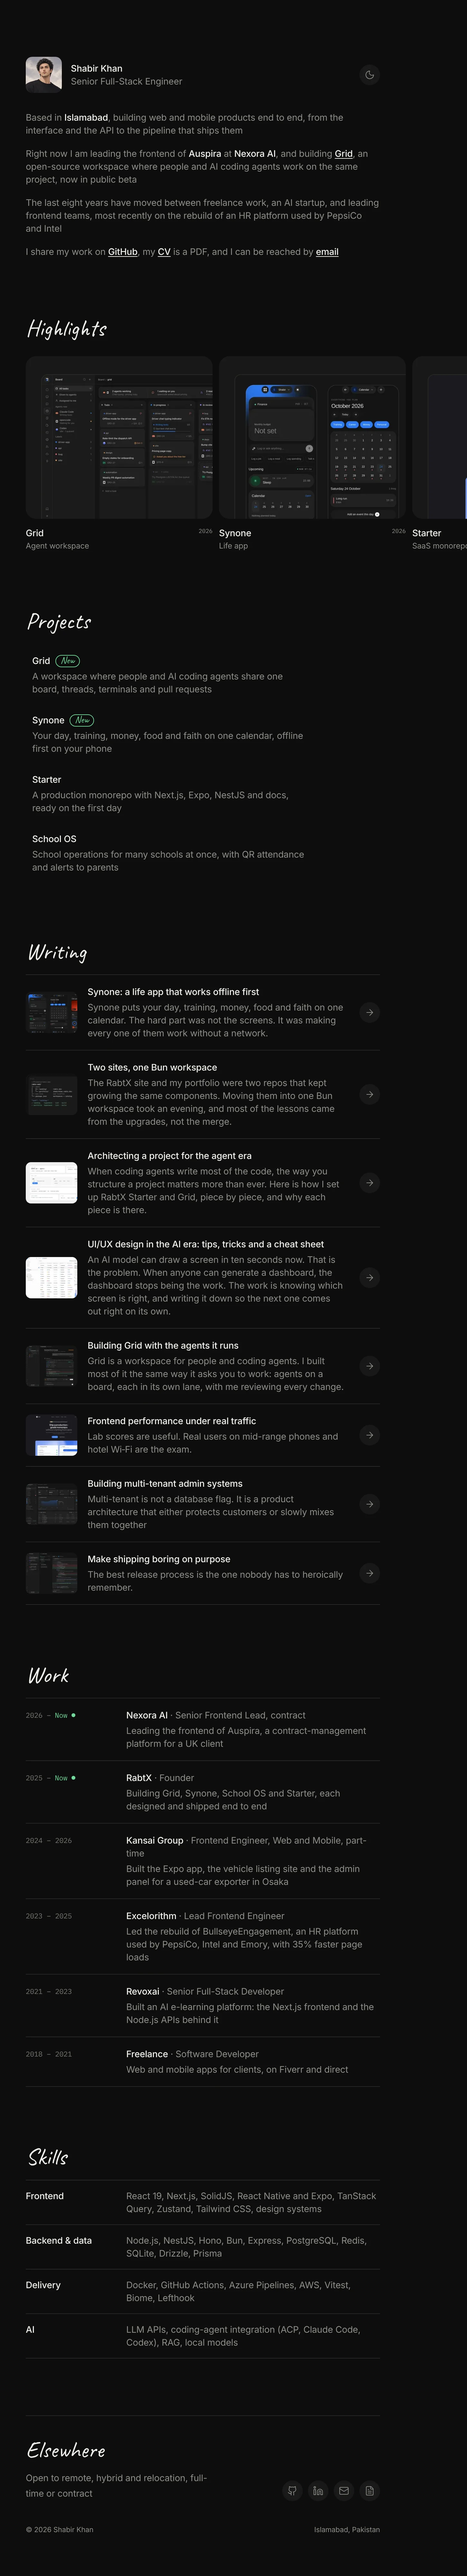
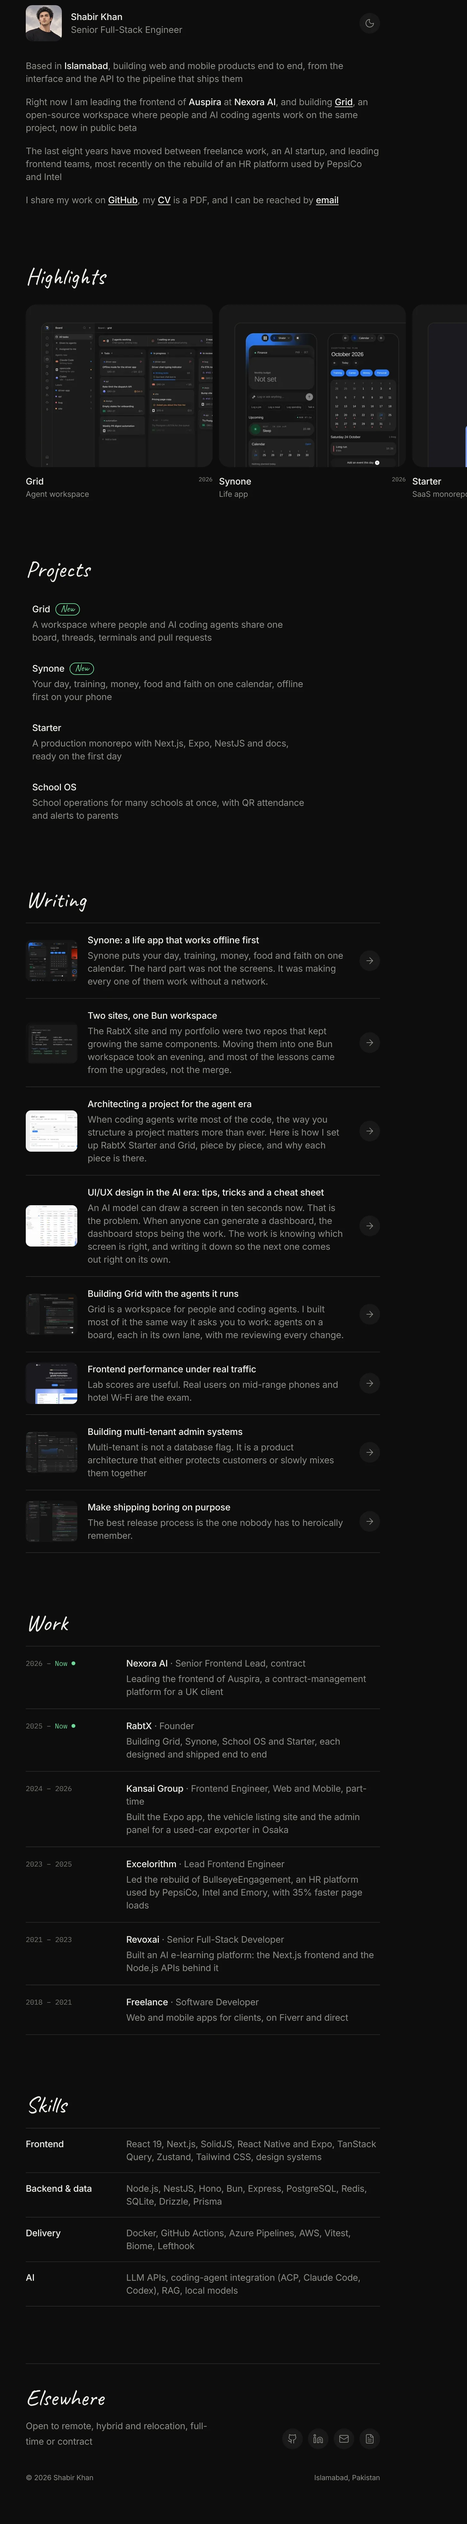
Crop the README screenshot's top margin and link to shabirkhan.rabtx.dev
Claude-Session: https://claude.ai/code/session_01CMQUCzKXygXChw2VYrLweu

diff --git a/README.md b/README.md
@@ -1,1 +1,1 @@
-<a href="https://shabirkhan-dev.github.io/shabirkhan-dev/"><img src="portfolio.webp" alt="Shabir Khan, Senior Full-Stack Engineer. Portfolio: highlights, projects, writing, work and skills" width="100%" /></a>
+<a href="https://shabirkhan.rabtx.dev"><img src="portfolio.webp" alt="Shabir Khan, Senior Full-Stack Engineer. Portfolio: highlights, projects, writing, work and skills" width="100%" /></a>
